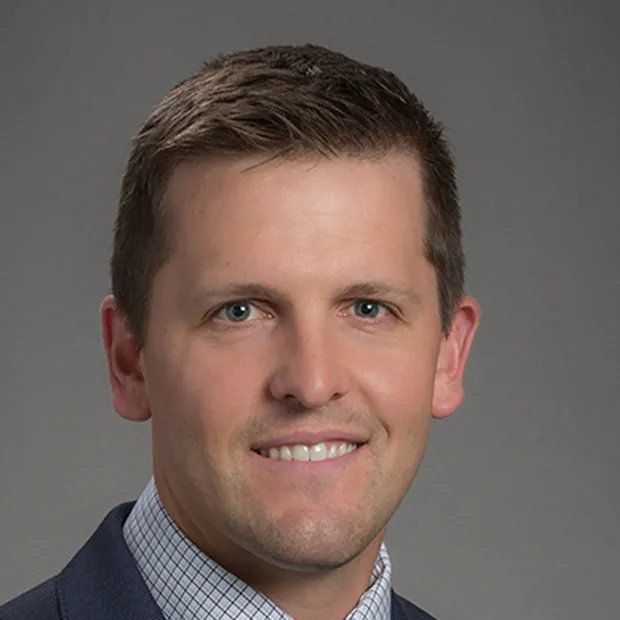
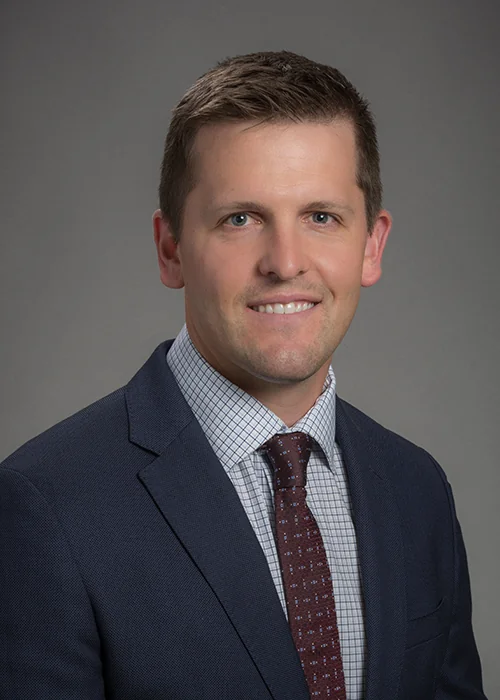
Replace seven clinical PI headshots with supplied original-framing portraits

diff --git a/tests/haneul-team.test.js b/tests/haneul-team.test.js
@@ -176,7 +176,7 @@ test('Clinical principal investigators form a staggered W: four above, three cen
 });
 
 
-test('All seven clinical PI images are optimized square portraits stored in the website', async () => {
+test('All seven clinical PIs use the newly supplied original-proportion portraits', async () => {
   const { readFileSync, statSync } = await import('node:fs');
   const photoPaths = clinical.principalInvestigators.map(person => person.photo);
   assert.equal(new Set(photoPaths).size, 7);
@@ -190,8 +190,8 @@ test('All seven clinical PI images are optimized square portraits stored in the 
     assert.equal(buf.toString('ascii',12,16), 'VP8 ');
     const width=buf.readUInt16LE(26) & 0x3fff;
     const height=buf.readUInt16LE(28) & 0x3fff;
-    assert.equal(width,620,photo+' width');
-    assert.equal(height,620,photo+' height');
+    assert.ok(width >= 250, photo + ' must have usable display resolution');
+    assert.ok(height > width, photo + ' must preserve its original portrait aspect ratio');
   }
   const page = String(TeamGroupPage(clinical));
   assert.ok(!page.includes('clinical-pis-sprite.webp'));
